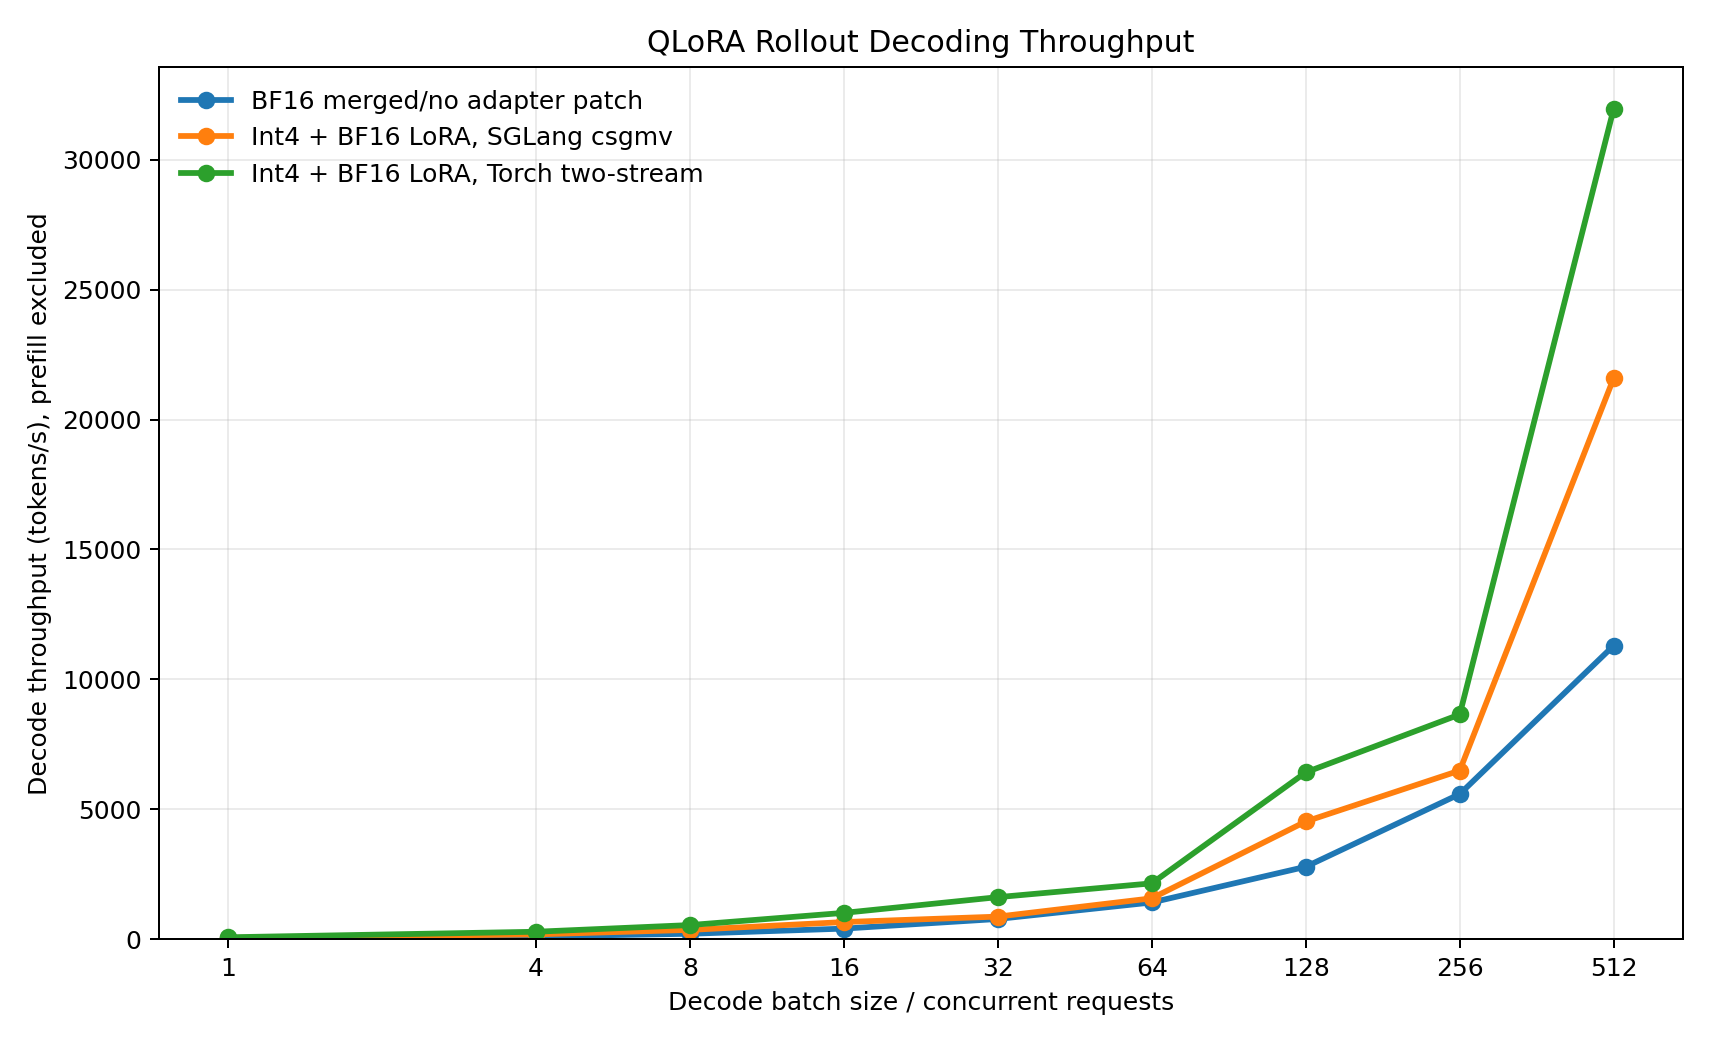
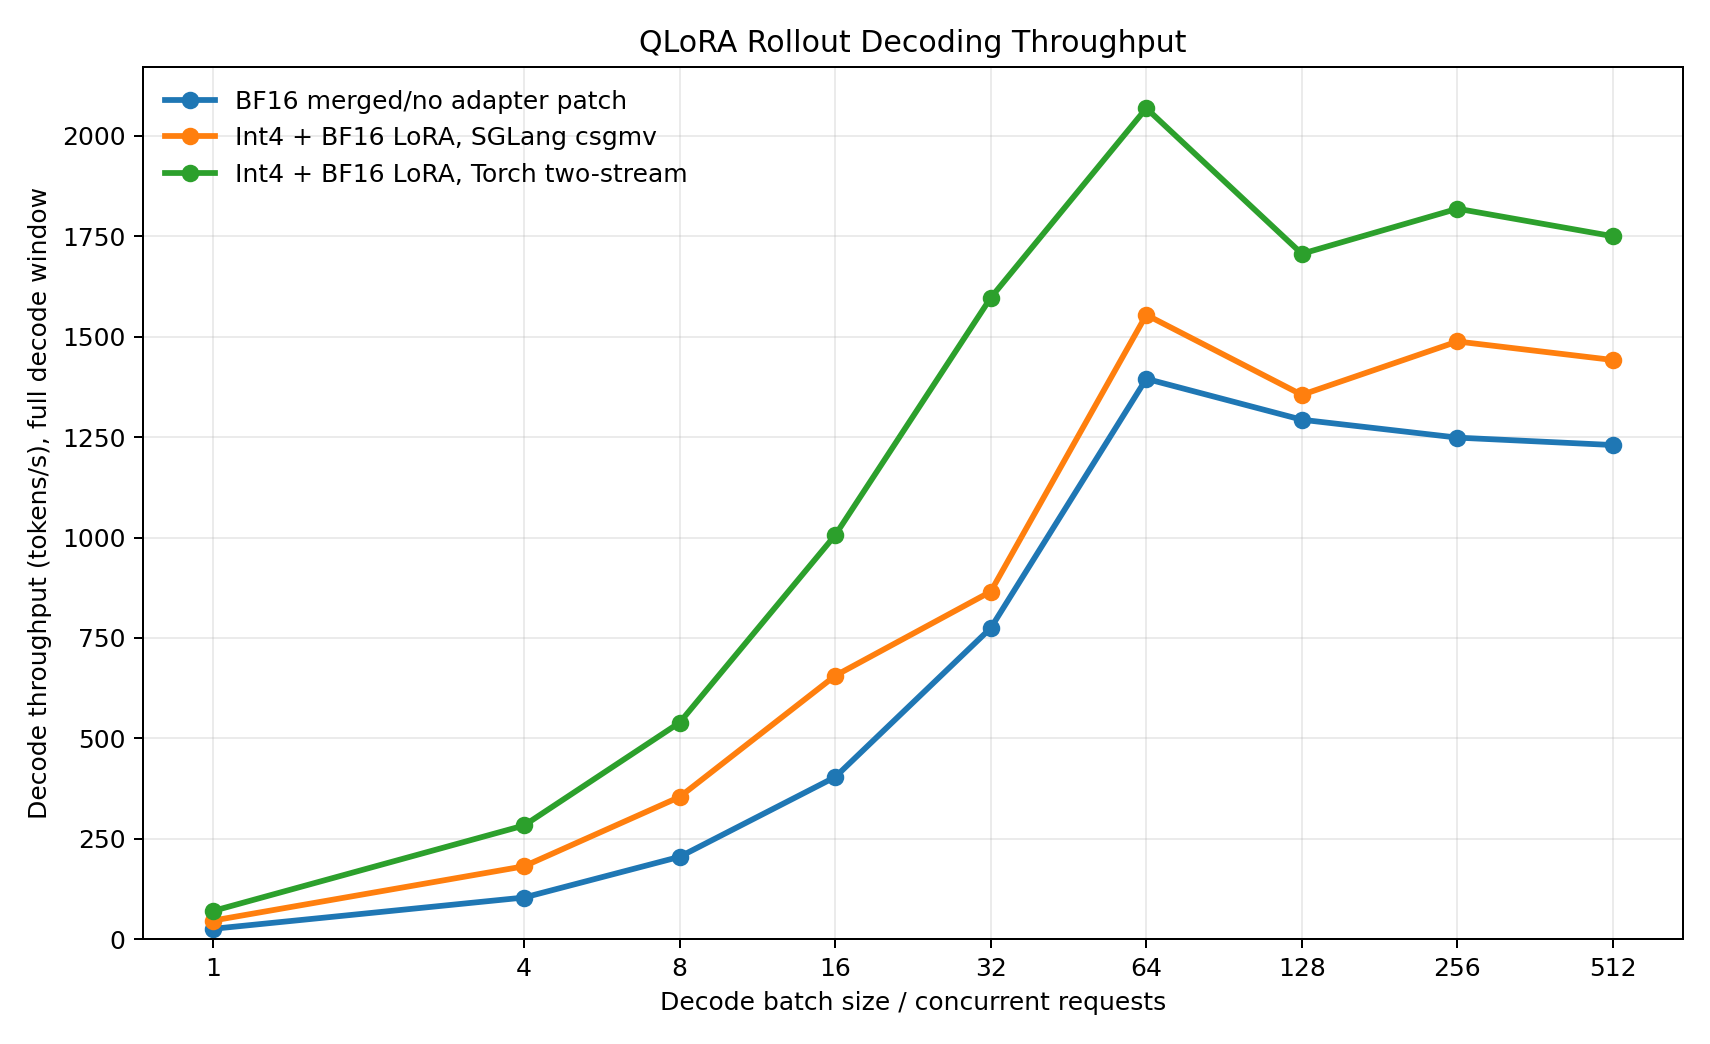
Fix decoding throughput window accounting

diff --git a/.rollout-profile/qlora-decoding-throughput/plot_decoding.py b/.rollout-profile/qlora-decoding-throughput/plot_decoding.py
@@ -17,36 +17,106 @@ SCHEME_LABELS = {
 }
 
 
+def recompute_summary(payload: dict, source: Path) -> dict:
+    summary = payload["summary"]
+    traces = payload["requests"]
+    successful = [
+        trace
+        for trace in traces
+        if trace.get("success")
+        and trace.get("first_token_s") is not None
+        and trace.get("last_token_s") is not None
+    ]
+    success = bool(summary.get("success")) and len(successful) == len(traces)
+    row = {
+        "scheme": payload["scheme"],
+        "batch_size": int(summary["batch_size"]),
+        "decode_tokens_per_request": int(summary["decode_tokens_per_request"]),
+        "success": success,
+        "decode_time_s": None,
+        "decode_tok_s": None,
+        "full_decode_time_s": None,
+        "full_decode_tok_s": None,
+        "all_started_decode_time_s": None,
+        "all_started_decode_tok_s": None,
+        "tokens_after_all_started": None,
+        "observed_tokens": None,
+        "first_token_spread_s": None,
+        "legacy_decode_tok_s": summary.get("decode_tok_s"),
+        "completed_requests": len(successful),
+        "source": str(source),
+    }
+    if not success:
+        return row
+
+    first_decode_start = min(trace["first_token_s"] for trace in successful)
+    all_started_decode_start = max(trace["first_token_s"] for trace in successful)
+    decode_end = max(trace["last_token_s"] for trace in successful)
+    full_decode_time_s = max(decode_end - first_decode_start, 0.0)
+    all_started_decode_time_s = max(decode_end - all_started_decode_start, 0.0)
+    observed_tokens = sum(int(trace.get("output_len") or 0) for trace in successful)
+    tokens_after_all_started = sum(
+        1
+        for trace in successful
+        for _, timestamp in trace.get("token_timestamps_s", [])
+        if timestamp >= all_started_decode_start
+    )
+
+    full_decode_tok_s = (
+        observed_tokens / full_decode_time_s if full_decode_time_s > 0 else None
+    )
+    all_started_decode_tok_s = (
+        tokens_after_all_started / all_started_decode_time_s
+        if all_started_decode_time_s > 0
+        else None
+    )
+    row.update(
+        {
+            "decode_time_s": full_decode_time_s,
+            "decode_tok_s": full_decode_tok_s,
+            "full_decode_time_s": full_decode_time_s,
+            "full_decode_tok_s": full_decode_tok_s,
+            "all_started_decode_time_s": all_started_decode_time_s,
+            "all_started_decode_tok_s": all_started_decode_tok_s,
+            "tokens_after_all_started": tokens_after_all_started,
+            "observed_tokens": observed_tokens,
+            "first_token_spread_s": all_started_decode_start - first_decode_start,
+        }
+    )
+    return row
+
+
 def load_rows(results_dir: Path) -> list[dict]:
     rows = []
     for path in sorted(results_dir.glob("*.bs*.json")):
         payload = json.loads(path.read_text(encoding="utf-8"))
-        summary = payload["summary"]
-        rows.append(
-            {
-                "scheme": payload["scheme"],
-                "batch_size": int(summary["batch_size"]),
-                "decode_tokens_per_request": int(
-                    summary["decode_tokens_per_request"]
-                ),
-                "success": bool(summary["success"]),
-                "decode_time_s": summary.get("decode_time_s"),
-                "decode_tok_s": summary.get("decode_tok_s"),
-                "decode_tok_s_excluding_first_token": summary.get(
-                    "decode_tok_s_excluding_first_token"
-                ),
-                "completed_requests": summary.get("completed_requests", 0),
-                "source": str(path),
-            }
-        )
+        rows.append(recompute_summary(payload, path))
     return rows
 
 
 def write_csv(rows: list[dict], path: Path) -> None:
     if not rows:
         return
+    fieldnames = [
+        "scheme",
+        "batch_size",
+        "decode_tokens_per_request",
+        "success",
+        "decode_time_s",
+        "decode_tok_s",
+        "full_decode_time_s",
+        "full_decode_tok_s",
+        "all_started_decode_time_s",
+        "all_started_decode_tok_s",
+        "tokens_after_all_started",
+        "observed_tokens",
+        "first_token_spread_s",
+        "legacy_decode_tok_s",
+        "completed_requests",
+        "source",
+    ]
     with path.open("w", newline="", encoding="utf-8") as f:
-        writer = csv.DictWriter(f, fieldnames=list(rows[0]))
+        writer = csv.DictWriter(f, fieldnames=fieldnames)
         writer.writeheader()
         writer.writerows(rows)
 
@@ -57,23 +127,35 @@ def write_table(rows: list[dict], path: Path) -> None:
         by_batch.setdefault(row["batch_size"], {})[row["scheme"]] = row
 
     lines = [
-        "| Batch | BF16 tok/s | csgmv QLoRA tok/s | Torch two-stream QLoRA tok/s | Best QLoRA speedup |",
-        "|---:|---:|---:|---:|---:|",
+        "| Batch | BF16 full tok/s | csgmv QLoRA full tok/s | Torch two-stream QLoRA full tok/s | Best QLoRA speedup | Torch all-started tok/s | Torch first-token spread s |",
+        "|---:|---:|---:|---:|---:|---:|---:|",
     ]
     for bs in sorted(by_batch):
         group = by_batch[bs]
         bf16 = (group.get("bf16_merged") or {}).get("decode_tok_s")
         csgmv = (group.get("qlora_csgmv") or {}).get("decode_tok_s")
         torch_ts = (group.get("qlora_torch_twostream") or {}).get("decode_tok_s")
+        torch_all_started = (group.get("qlora_torch_twostream") or {}).get(
+            "all_started_decode_tok_s"
+        )
+        torch_spread = (group.get("qlora_torch_twostream") or {}).get(
+            "first_token_spread_s"
+        )
         qlora_best = max([v for v in [csgmv, torch_ts] if v is not None], default=None)
         speedup = qlora_best / bf16 if bf16 and qlora_best else None
         lines.append(
-            "| {bs} | {bf16} | {csgmv} | {torch_ts} | {speedup} |".format(
+            "| {bs} | {bf16} | {csgmv} | {torch_ts} | {speedup} | {torch_all_started} | {torch_spread} |".format(
                 bs=bs,
                 bf16=f"{bf16:.1f}" if bf16 else "",
                 csgmv=f"{csgmv:.1f}" if csgmv else "",
                 torch_ts=f"{torch_ts:.1f}" if torch_ts else "",
                 speedup=f"{speedup:.2f}x" if speedup else "",
+                torch_all_started=(
+                    f"{torch_all_started:.1f}"
+                    if torch_all_started is not None
+                    else ""
+                ),
+                torch_spread=f"{torch_spread:.2f}" if torch_spread is not None else "",
             )
         )
     path.write_text("\n".join(lines) + "\n", encoding="utf-8")
@@ -100,7 +182,7 @@ def plot(rows: list[dict], out_path: Path) -> None:
     ax.set_xticklabels([str(x) for x in sorted({row["batch_size"] for row in rows})])
     ax.set_ylim(bottom=0)
     ax.set_xlabel("Decode batch size / concurrent requests")
-    ax.set_ylabel("Decode throughput (tokens/s), prefill excluded")
+    ax.set_ylabel("Decode throughput (tokens/s), full decode window")
     ax.set_title("QLoRA Rollout Decoding Throughput")
     ax.grid(True, alpha=0.25)
     ax.legend(frameon=False)

diff --git a/.rollout-profile/qlora-decoding-throughput/decoding_client.py b/.rollout-profile/qlora-decoding-throughput/decoding_client.py
@@ -170,30 +170,54 @@ async def run_batch(
             "error": f"{len(successful)}/{batch_size} requests completed successfully",
         }
 
-    decode_start = max(t.first_token_s for t in successful if t.first_token_s)
+    first_decode_start = min(t.first_token_s for t in successful if t.first_token_s)
+    all_started_decode_start = max(
+        t.first_token_s for t in successful if t.first_token_s
+    )
     decode_end = max(t.last_token_s for t in successful if t.last_token_s)
-    decode_time_s = max(decode_end - decode_start, 0.0)
-    inclusive_tokens = batch_size * decode_tokens
-    excluding_first_tokens = batch_size * max(decode_tokens - 1, 0)
+    full_decode_time_s = max(decode_end - first_decode_start, 0.0)
+    all_started_decode_time_s = max(decode_end - all_started_decode_start, 0.0)
+    observed_tokens = sum(t.output_len for t in successful)
+    tokens_after_all_started = sum(
+        1
+        for trace in successful
+        for _, timestamp in trace.token_timestamps_s
+        if timestamp >= all_started_decode_start
+    )
     latencies = [t.latency_s for t in successful]
     return traces, {
         "success": True,
         "batch_size": batch_size,
         "decode_tokens_per_request": decode_tokens,
         "completed_requests": len(successful),
-        "decode_start_s": decode_start,
+        "first_decode_start_s": first_decode_start,
+        "all_started_decode_start_s": all_started_decode_start,
+        "decode_start_s": first_decode_start,
         "decode_end_s": decode_end,
-        "decode_time_s": decode_time_s,
-        "decode_tok_s": inclusive_tokens / decode_time_s if decode_time_s > 0 else None,
-        "decode_tok_s_excluding_first_token": (
-            excluding_first_tokens / decode_time_s if decode_time_s > 0 else None
+        "decode_time_s": full_decode_time_s,
+        "decode_tok_s": (
+            observed_tokens / full_decode_time_s if full_decode_time_s > 0 else None
         ),
+        "full_decode_time_s": full_decode_time_s,
+        "full_decode_tok_s": (
+            observed_tokens / full_decode_time_s if full_decode_time_s > 0 else None
+        ),
+        "all_started_decode_time_s": all_started_decode_time_s,
+        "all_started_decode_tok_s": (
+            tokens_after_all_started / all_started_decode_time_s
+            if all_started_decode_time_s > 0
+            else None
+        ),
+        "tokens_after_all_started": tokens_after_all_started,
+        "observed_tokens": observed_tokens,
+        "first_token_spread_s": all_started_decode_start - first_decode_start,
         "mean_request_latency_s": statistics.mean(latencies),
         "median_request_latency_s": statistics.median(latencies),
         "min_output_len": min(t.output_len for t in successful),
         "max_output_len": max(t.output_len for t in successful),
         "prefill_excluded": True,
-        "global_decode_window": "max(first_token_time) to max(last_token_time)",
+        "global_decode_window": "min(first_token_time) to max(last_token_time)",
+        "all_started_decode_window": "max(first_token_time) to max(last_token_time)",
     }
 
 

diff --git a/.rollout-profile/qlora-decoding-throughput/summary_table.md b/.rollout-profile/qlora-decoding-throughput/summary_table.md
@@ -1,11 +1,11 @@
-| Batch | BF16 tok/s | csgmv QLoRA tok/s | Torch two-stream QLoRA tok/s | Best QLoRA speedup |
-|---:|---:|---:|---:|---:|
-| 1 | 25.6 | 46.1 | 70.0 | 2.74x |
-| 4 | 103.5 | 181.3 | 283.0 | 2.73x |
-| 8 | 204.9 | 354.0 | 540.4 | 2.64x |
-| 16 | 403.6 | 656.0 | 1009.6 | 2.50x |
-| 32 | 774.7 | 865.6 | 1614.7 | 2.08x |
-| 64 | 1410.4 | 1570.3 | 2146.6 | 1.52x |
-| 128 | 2784.7 | 4526.8 | 6418.3 | 2.30x |
-| 256 | 5583.2 | 6488.2 | 8646.6 | 1.55x |
-| 512 | 11298.4 | 21593.7 | 31963.9 | 2.83x |
+| Batch | BF16 full tok/s | csgmv QLoRA full tok/s | Torch two-stream QLoRA full tok/s | Best QLoRA speedup | Torch all-started tok/s | Torch first-token spread s |
+|---:|---:|---:|---:|---:|---:|---:|
+| 1 | 25.6 | 46.1 | 70.0 | 2.74x | 70.0 | 0.00 |
+| 4 | 103.5 | 181.3 | 283.0 | 2.73x | 282.2 | 0.00 |
+| 8 | 204.9 | 354.0 | 539.1 | 2.63x | 538.6 | 0.01 |
+| 16 | 403.5 | 655.9 | 1005.9 | 2.49x | 1005.9 | 0.01 |
+| 32 | 774.6 | 865.4 | 1597.1 | 2.06x | 1608.6 | 0.06 |
+| 64 | 1395.3 | 1554.6 | 2069.1 | 1.48x | 2138.4 | 0.29 |
+| 128 | 1293.4 | 1355.4 | 1706.7 | 1.32x | 1398.7 | 14.09 |
+| 256 | 1248.9 | 1488.3 | 1818.9 | 1.46x | 1855.2 | 28.45 |
+| 512 | 1230.4 | 1442.1 | 1750.4 | 1.42x | 784.5 | 70.78 |

diff --git a/.rollout-profile/qlora-decoding-throughput/README.md b/.rollout-profile/qlora-decoding-throughput/README.md
@@ -107,12 +107,18 @@ Files:
 The decode metric is:
 
 ```text
-decode_start = max(first streamed token timestamp across all requests)
+decode_start = min(first streamed token timestamp across all requests)
 decode_end   = max(last streamed token timestamp across all requests)
-tok/s        = batch_size * 256 / (decode_end - decode_start)
+tok/s        = observed generated tokens / (decode_end - decode_start)
 ```
 
-This intentionally excludes prefill/TTFT from the throughput denominator.
+This intentionally excludes prefill/TTFT before the first emitted decode token,
+but keeps the full decode window. Do not use `max(first_token_time)` as the
+decode start while still counting all generated tokens: at large batch sizes
+SGLang can stagger requests in waves, and that denominator/numerator mismatch
+artificially inflates throughput. The harness also reports an
+`all_started_decode_tok_s` diagnostic using `max(first_token_time)`, but it only
+counts token events after that timestamp.
 
 Important caveat: decode throughput is strongly coupled to KV-cache length, not
 only to the projection kernels. As rollout context grows, attention increasingly
